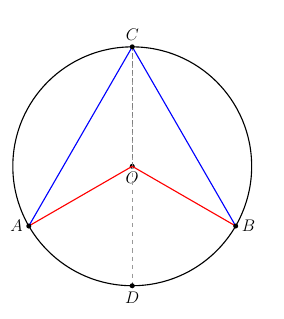
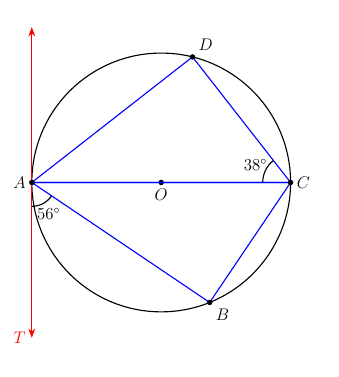
final version of 07.js

diff --git a/problems/igcse/2026/07.js b/problems/igcse/2026/07.js
@@ -1129,53 +1129,53 @@ const problemBank = [
     },
     "payhip_link": "https://payhip.com/b/miLap",
     "button_text": "Master IGCSE Algebra: Download the Pack"
-}
+},
     {
-        "id": "003208",
-        "date": "27 July 2026",
-        "major_area": "Geometry",
-        "topic": "Circle Geometry",
-        "subtopic": "Circle Theorem Proofs",
-        "difficulty": "A/A*",
-        "img": "true",
-        "q": "The diagram shows a circle with centre $O$. Points $A$ and $B$ lie on the circumference, and point $C$ lies on the major arc $AB$. The straight line $CD$ passes through the centre $O$.<br>(a) Prove that angle $AOD = 2 \\times \\text{angle } ACO$.<br>(b) Complete the algebraic proof to show that the angle subtended by the arc $AB$ at the centre of the circle is twice the angle subtended at the circumference.",
-        "steps": [
-            "For part (a), we consider the triangle $AOC$. Since $OA$ and $OC$ are both radii of the same circle, $OA = OC$.",
-            "This makes triangle $AOC$ an isosceles triangle. Since the angles opposite the equal sides in an isosceles triangle are equal, we can define angle $OAC = \\text{angle } ACO = x$.",
-            "The sum of angles in a triangle is $180^\\circ$. Therefore, angle $AOC = 180^\\circ - 2x$.",
-            "Since $CD$ is a straight diameter line passing through the centre $O$, the adjacent angles on a straight line must sum to $180^\\circ$.",
-            "This gives: angle $AOD = 180^\\circ - \\text{angle } AOC = 180^\\circ - (180^\\circ - 2x) = 2x$.",
-            "Since angle $ACO = x$ and angle $AOD = 2x$, we have proved that angle $AOD = 2 \\times \\text{angle } ACO$.",
-            "For part (b), we apply the exact same geometric logic to the right side of the circle to analyse triangle $BOC$.",
-            "Since $OB = OC$ (both are radii), triangle $BOC$ is also an isosceles triangle. We can define angle $OBC = \\text{angle } BCO = y$.",
-            "Following the same steps as in part (a), the exterior angle at the centre is: angle $BOD = 2y$.",
-            "The total angle subtended at the circumference is: angle $ACB = \\text{angle } ACO + \\text{angle } BCO = x + y$.",
-            "The total angle subtended at the centre is: angle $AOB = \\text{angle } AOD + \\text{angle } BOD = 2x + 2y = 2(x + y)$.",
-            "Since angle $AOB = 2(x + y)$ and angle $ACB = x + y$, this proves that angle $AOB = 2 \\times \\text{angle } ACB$, completing the proof.",
-            "Final Answer: $$(a)\\ \\text{Proof that angle } AOD = 2x \\text{ completed}$$<br>$$(b)\\ \\text{Proof that angle } AOB = 2(x+y) \\text{ completed}$$"
-        ],
-        "wrong_options": [
-            {
-                "ans": "$$(a)\\ \\text{Proof based on tangent rules completed}$$<br>$$(b)\\ \\text{Proof that angle } AOB = 2(x+y) \\text{ completed}$$",
-                "feedback": "Your proof for part (a) incorrectly cited tangent-radius perpendicular properties. The straight line $CD$ is a diameter, not a tangent line."
-            },
-            {
-                "ans": "$$(a)\\ \\text{Proof that angle } AOD = 2x \\text{ completed}$$<br>$$(b)\\ \\text{Proof based on cyclic quadrilateral properties completed}$$",
-                "feedback": "Your proof for part (b) cited opposite angles in a cyclic quadrilateral. This is incorrect because the centre point $O$ does not lie on the circumference."
-            },
-            {
-                "ans": "$$(a)\\ \\text{Proof that angle } AOD = x^2 \\text{ completed}$$<br>$$(b)\\ \\text{Proof based on angle ratio errors completed}$$",
-                "feedback": "You modeled the relationship as a square power rather than a linear multiplication of two, which violates the angles subtended theorem."
-            }
-        ],
-        "bradley_insight": {
-            "type": "deeper",
-            "title": "The Head Teacher's Eye: Structuring Circle Proofs",
-            "content": "Circle theorem proofs are highly structured. The critical step is drawing the diameter line through the centre from the circumference point. This splits the shape into two distinct isosceles triangles, allowing you to use the exterior angle theorem of triangles to easily construct the final $2(x+y)$ relationship."
+    "id": "003208",
+    "date": "27 July 2026",
+    "major_area": "Geometry",
+    "topic": "Circle Geometry",
+    "subtopic": "Circle Theorems 2",
+    "difficulty": "A/A*",
+    "img": "true",
+    "q": "The diagram shows a circle with centre $O$. $A$, $B$, $C$, and $D$ are points on the circumference. $AC$ is a diameter of the circle, and the line $TA$ is a tangent to the circle at point $A$. The tangent angle $TAB = 56^\\circ$ and angle $ACD = 38^\\circ$.<br>(a) Find the size of angle $ACB$. State the geometric reason for your answer.<br>(b) Calculate the size of angle $CAD$. State the geometric reasons for your calculations.",
+    "steps": [
+        "For part (a), we identify that $TA$ is a tangent to the circle at point $A$, and $AB$ is a chord.",
+        "The angle between the tangent $TA$ and the chord $AB$ is given as angle $TAB = 56^\\circ$.",
+        "According to the alternate segment theorem, the angle between a tangent and a chord through the point of contact is equal to the angle subtended by the chord in the alternate segment.",
+        "The angle subtended by the chord $AB$ in the alternate segment is angle $ACB$.",
+        "Therefore, angle $ACB = 56^\\circ$. Our geometric reason is: 'The Alternate Segment Theorem'.",
+        "For part (b), we observe that the chord $AC$ is a diameter of the circle.",
+        "According to the circle theorem, the angle subtended by a diameter at the circumference is always a right angle.",
+        "In the triangle $ADC$, this means the angle $ADC = 90^\\circ$. Our geometric reason is: 'The angle in a semicircle is a right angle'.",
+        "We are given that angle $ACD = 38^\\circ$ inside the triangle $ADC$.",
+        "Since the angles in any triangle must sum to $180^\\circ$, we can find the remaining angle $CAD$.",
+        "We calculate this as: $\\text{angle } CAD = 180^\\circ - (90^\\circ + 38^\\circ) = 180^\\circ - 128^\\circ = 52^\\circ$.",
+        "Our geometric reason is: 'The sum of angles in a triangle is 180 degrees'.",
+        "Final Answer: $$(a)\\ 56^\\circ\\ (b)\\ 52^\\circ$$"
+    ],
+    "wrong_options": [
+        {
+            "ans": "$$(a)\\ 56^\\circ\\ (b)\\ 38^\\circ$$",
+            "feedback": "For part (b), you assumed that triangle $ADC$ is isosceles and that angle $CAD$ is equal to angle $ACD$ ($38^\\circ$), which is not supported by any circle theorem."
         },
-        "payhip_link": "https://payhip.com/b/1rJUj",
-        "button_text": "Master Circle Theorems: Download the Proofs Pack"
+        {
+            "ans": "$$(a)\\ 34^\\circ\\ (b)\\ 52^\\circ$$",
+            "feedback": "For part (a), you used the tangent-radius perpendicular rule incorrectly, subtracting $56^\\circ$ from $90^\\circ$ instead of applying the alternate segment theorem."
+        },
+        {
+            "ans": "$$(a)\\ 56^\\circ\\ (b)\\ 90^\\circ$$",
+            "feedback": "You calculated the angle $ADC$ correctly as $90^\\circ$, but you forgot to perform the final subtraction to find the required angle $CAD$."
+        }
+    ],
+    "bradley_insight": {
+        "type": "caution",
+        "title": "The Head Teacher's Eye: Explicit worked Reasons",
+        "content": "Even though Cambridge does not expect you to algebraically prove circle theorems, they strictly require you to state the name of each theorem you use during multi-step angle calculations. Standard phrases like 'angle in a semicircle is 90 degrees' and 'alternate segment theorem' are necessary to secure full reasoning marks."
     },
+    "payhip_link": "https://payhip.com/b/wm0xL",
+    "button_text": "Master IGCSE Circle Geometry: Download the Pack"
+},
     {
         "id": "003209",
         "date": "28 July 2026",
@@ -1262,49 +1262,50 @@ const problemBank = [
         "payhip_link": "https://payhip.com/b/QsiXK",
         "button_text": "Master IGCSE 3D Trigonometry: Download the Pack"
     },
-    {
-        "id": "003211",
-        "date": "30 July 2026",
-        "major_area": "Probability & Statistics",
-        "topic": "Probability",
-        "subtopic": "Conditional Probability",
-        "difficulty": "B/C",
-        "q": "A leisure centre surveys 80 participants about their preferred exercise class. The results are summarised below:<br>- Of the 45 adults surveyed, 25 choose swimming and 20 choose running.<br>- Of the 35 children surveyed, 15 choose swimming and 20 choose running.<br>(a) Construct a two-way table to fully represent this information.<br>(b) A participant is selected at random. Given that this participant is an adult, calculate the probability that they choose swimming.",
-        "steps": [
-            "For part (a), we construct a two-way table with rows representing age groups (Adults, Children) and columns representing their class choice (Swimming, Running), along with total columns and rows.",
-            "Row 1 (Adults): 25 Swimming, 20 Running. Total Adults = $25 + 20 = 45$.",
-            "Row 2 (Children): 15 Swimming, 20 Running. Total Children = $15 + 20 = 35$.",
-            "Column Totals: Swimming $= 25 + 15 = 40$ and Running $= 20 + 20 = 40$.",
-            "The overall combined total is $45 + 35 = 80$, which matches our survey pool and completes the table.",
-            "For part (b), we are given the condition that the chosen participant is an adult.",
-            "This restricts our sample space from the total of 80 participants to only the 45 adults.",
-            "The number of adults who choose swimming is 25.",
-            "This gives the conditional probability as: $\\text{P}(\\text{Swimming} | \\text{Adult}) = \\dfrac{25}{45}$.",
-            "We simplify the fraction by dividing the numerator and denominator by 5, which yields: $\\dfrac{5}{9}$.",
-            "Final Answer: $$(a)\\ \\text{Two-way table constructed}\\ (b)\\ \\dfrac{5}{9}$$"
-        ],
-        "wrong_options": [
-            {
-                "ans": "$$(a)\\ \\text{Two-way table constructed}\\ (b)\\ \\dfrac{5}{16}$$",
-                "feedback": "You calculated the probability using the entire survey pool of 80 as your denominator instead of restricting it to the 45 adults."
-            },
-            {
-                "ans": "$$(a)\\ \\text{Two-way table constructed}\\ (b)\\ \\dfrac{5}{8}$$",
-                "feedback": "You used the total number of swimming participants (40) as your denominator instead of restricting it to the 45 adults."
-            },
-            {
-                "ans": "$$(a)\\ \\text{Two-way table constructed}\\ (b)\\ \\dfrac{4}{9}$$",
-                "feedback": "You calculated the probability that the adult chooses running (20/45) instead of swimming."
-            }
-        ],
-        "bradley_insight": {
-            "type": "caution",
-            "title": "The Head Teacher's Eye: Subgroup Conditioning",
-            "content": "On two-way tables, conditional probability queries starting with 'Given that...' require you to limit your sample size. For part (b), the condition is that the participant is an adult, so your denominator must be the sum of all elements inside the adult row (45), not the overall total of 80."
+   {
+    "id": "003211",
+    "date": "30 July 2026",
+    "major_area": "Probability & Statistics",
+    "topic": "Probability",
+    "subtopic": "Conditional Probability",
+    "difficulty": "B/C",
+    "q": "A leisure centre surveys 80 participants about their preferred exercise class. The results are summarised below:<br>- Of the 45 adults surveyed, 25 choose swimming and 20 choose running.<br>- Of the 35 children surveyed, 15 choose swimming and 20 choose running.<br>(a) Construct a two-way table to fully represent this information.<br>(b) A participant is selected at random. Given that this participant is an adult, calculate the probability that they choose swimming.",
+    "steps": [
+        "For part (a), we construct a two-way table with rows representing age groups (Adults, Children) and columns representing their class choice (Swimming, Running), along with total columns and rows.",
+        "We fill in the given data and calculate the missing totals to produce the completed model table:<br><br><table border='1' style='border-collapse: collapse; text-align: center; margin: 10px 0; width: 100%; max-width: 500px;'><thead><tr style='background-color: #f2f2f2;'><th style='padding: 8px;'></th><th style='padding: 8px;'>Swimming</th><th style='padding: 8px;'>Running</th><th style='padding: 8px;'>Total</th></tr></thead><tbody><tr><td style='padding: 8px; font-weight: bold;'>Adults</td><td style='padding: 8px;'>25</td><td style='padding: 8px;'>20</td><td style='padding: 8px; font-weight: bold;'>45</td></tr><tr><td style='padding: 8px; font-weight: bold;'>Children</td><td style='padding: 8px;'>15</td><td style='padding: 8px;'>20</td><td style='padding: 8px; font-weight: bold;'>35</td></tr><tr style='font-weight: bold; background-color: #f9f9f9;'><td style='padding: 8px;'>Total</td><td style='padding: 8px;'>40</td><td style='padding: 8px;'>40</td><td style='padding: 8px;'>80</td></tr></tbody></table>",
+        "Row 1 (Adults): 25 Swimming, 20 Running. Total Adults = $25 + 20 = 45$.",
+        "Row 2 (Children): 15 Swimming, 20 Running. Total Children = $15 + 20 = 35$.",
+        "Column Totals: Swimming $= 25 + 15 = 40$ and Running $= 20 + 20 = 40$.",
+        "The overall combined total is $45 + 35 = 80$, which matches our survey pool and completes the table.",
+        "For part (b), we are given the condition that the chosen participant is an adult.",
+        "This restricts our sample space from the total of 80 participants to only the 45 adults.",
+        "The number of adults who choose swimming is 25.",
+        "This gives the conditional probability as: $\\text{P}(\\text{Swimming} | \\text{Adult}) = \\dfrac{25}{45}$.",
+        "We simplify the fraction by dividing the numerator and denominator by 5, which yields: $\\dfrac{5}{9}$.",
+        "Final Answer: $$(a)\\ \\text{Two-way table constructed}\\ (b)\\ \\dfrac{5}{9}$$"
+    ],
+    "wrong_options": [
+        {
+            "ans": "$$(a)\\ \\text{Two-way table constructed}\\ (b)\\ \\dfrac{5}{16}$$",
+            "feedback": "You calculated the probability using the entire survey pool of 80 as your denominator instead of restricting it to the 45 adults."
         },
-        "payhip_link": "https://payhip.com/b/MoE4j",
-        "button_text": "Master IGCSE Probability: Download the Pack"
+        {
+            "ans": "$$(a)\\ \\text{Two-way table constructed}\\ (b)\\ \\dfrac{5}{8}$$",
+            "feedback": "You used the total number of swimming participants (40) as your denominator instead of restricting it to the 45 adults."
+        },
+        {
+            "ans": "$$(a)\\ \\text{Two-way table constructed}\\ (b)\\ \\dfrac{4}{9}$$",
+            "feedback": "You calculated the probability that the adult chooses running (20/45) instead of swimming."
+        }
+    ],
+    "bradley_insight": {
+        "type": "caution",
+        "title": "The Head Teacher's Eye: Subgroup Conditioning",
+        "content": "On two-way tables, conditional probability queries starting with 'Given that...' require you to limit your sample size. For part (b), the condition is that the participant is an adult, so your denominator must be the sum of all elements inside the adult row (45), not the overall total of 80."
     },
+    "payhip_link": "https://payhip.com/b/MoE4j",
+    "button_text": "Master IGCSE Probability: Download the Pack"
+},
     {
         "id": "003212",
         "date": "31 July 2026",